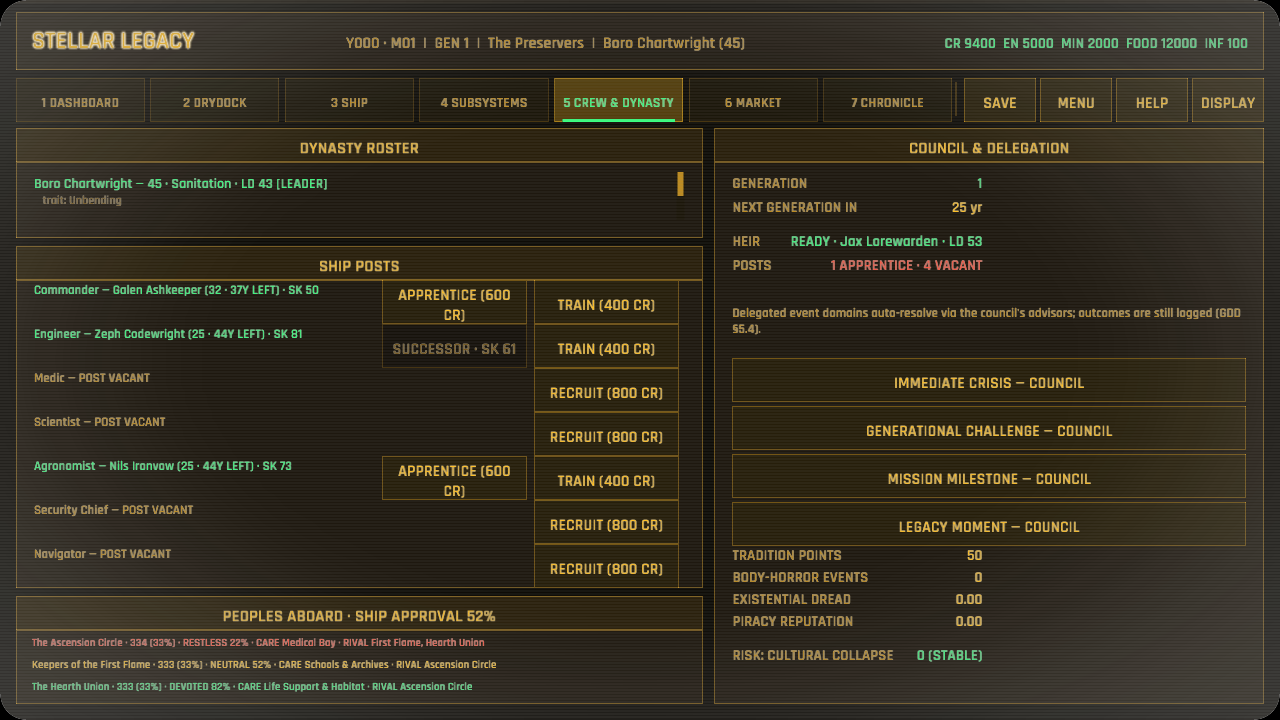
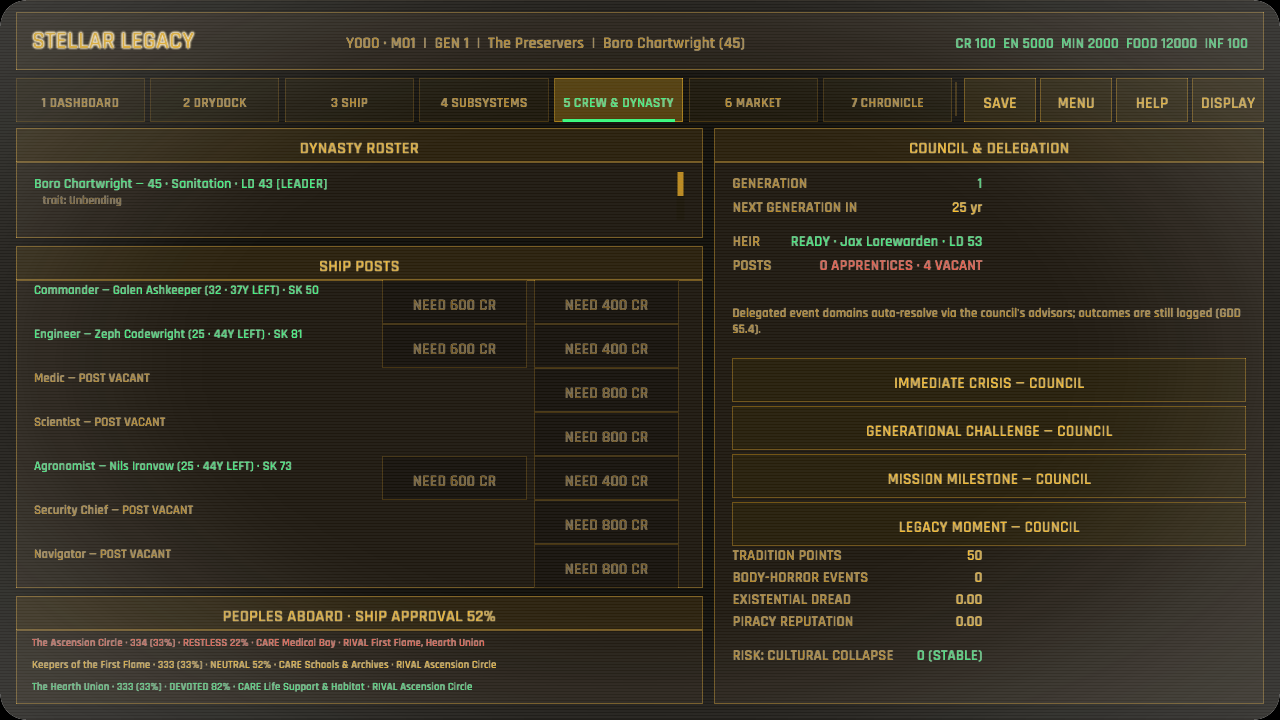
Empty coffers answer every crew petition plainly (crew action affordability)
Crew development controls continued to advertise recruit, apprentice, and training verbs when the treasury could not pay, and training alone remained visually enabled despite the resolver rejecting it. All three actions now replace their verb with the exact credit requirement when unaffordable, and training uses the same affordability gate as recruitment. A low-credit crew capture and focused label test keep the blocked state explicit.

diff --git a/src/ui/crew_dynasty.rs b/src/ui/crew_dynasty.rs
@@ -22,6 +22,14 @@ use macroquad_toolkit::ui::{draw_ui_text_ex, is_fully_visible, RectExt};
 const POST_STRIDE: f32 = 44.0;
 const POST_BUTTON_H: f32 = 44.0;
 
+fn priced_action_label(action: &str, cost: i64, credits: i64) -> String {
+    if credits >= cost {
+        format!("{action} ({cost} CR)")
+    } else {
+        format!("NEED {cost} CR")
+    }
+}
+
 pub fn draw(ctx: &GameplayCtx<'_>, area: Rect, pointer: Pointer, actions: &mut Vec<UiAction>) {
     let left = Rect::new(area.x, area.y, area.w * 0.55, area.h);
     let right = Rect::new(left.right() + 12.0, area.y, area.w - left.w - 12.0, area.h);
@@ -345,7 +353,13 @@ fn draw_posts(ctx: &GameplayCtx<'_>, rect: Rect, pointer: Pointer, actions: &mut
                 if term_button(
                     Rect::new(content.right() - 302.0, y - 14.0, 144.0, POST_BUTTON_H),
                     &apprentice.map_or_else(
-                        || format!("APPRENTICE ({} CR)", crew_cfg.apprentice_cost_credits),
+                        || {
+                            priced_action_label(
+                                "APPRENTICE",
+                                crew_cfg.apprentice_cost_credits,
+                                ctx.sim.resources.credits,
+                            )
+                        },
                         |a| format!("SUCCESSOR · SK {}", a.skill),
                     ),
                     apprentice.is_none()
@@ -359,9 +373,13 @@ fn draw_posts(ctx: &GameplayCtx<'_>, rect: Rect, pointer: Pointer, actions: &mut
                     &if maxed {
                         "MASTERED".to_owned()
                     } else {
-                        format!("TRAIN ({} CR)", crew_cfg.train_cost_credits)
+                        priced_action_label(
+                            "TRAIN",
+                            crew_cfg.train_cost_credits,
+                            ctx.sim.resources.credits,
+                        )
                     },
-                    !maxed,
+                    !maxed && ctx.sim.resources.credits >= crew_cfg.train_cost_credits,
                     pointer,
                 ) {
                     actions.push(UiAction::TrainCrew(archetype.id.clone()));
@@ -376,7 +394,11 @@ fn draw_posts(ctx: &GameplayCtx<'_>, rect: Rect, pointer: Pointer, actions: &mut
                 );
                 if term_button(
                     Rect::new(content.right() - 150.0, y - 14.0, 144.0, POST_BUTTON_H),
-                    &format!("RECRUIT ({} CR)", crew_cfg.recruit_cost_credits),
+                    &priced_action_label(
+                        "RECRUIT",
+                        crew_cfg.recruit_cost_credits,
+                        ctx.sim.resources.credits,
+                    ),
                     ctx.sim.resources.credits >= crew_cfg.recruit_cost_credits,
                     pointer,
                 ) {
@@ -387,6 +409,9 @@ fn draw_posts(ctx: &GameplayCtx<'_>, rect: Rect, pointer: Pointer, actions: &mut
         y += POST_STRIDE;
     }
 }
+
+#[cfg(test)]
+mod tests;
 
 fn draw_council(ctx: &GameplayCtx<'_>, rect: Rect, pointer: Pointer, actions: &mut Vec<UiAction>) {
     term_panel(rect, Some("COUNCIL & DELEGATION"));

diff --git a/src/game/capture_scenes.rs b/src/game/capture_scenes.rs
@@ -193,7 +193,7 @@ impl Game {
                     0xC0FFEE,
                     &crate::state::sim::founding_faction_ids(&self.data),
                 );
-                sim.resources.credits = 10_000;
+                sim.resources.credits = if scene == "crew" { 100 } else { 10_000 };
                 if scene == "crew_recruitment" {
                     sim.factions.pop();
                 }

diff --git a/src/ui/crew_dynasty/tests.rs b/src/ui/crew_dynasty/tests.rs
@@ -1,0 +1,11 @@
+use super::*;
+
+#[test]
+fn priced_crew_actions_explain_when_credits_are_missing() {
+    assert_eq!(priced_action_label("TRAIN", 400, 399), "NEED 400 CR");
+    assert_eq!(priced_action_label("TRAIN", 400, 400), "TRAIN (400 CR)");
+    assert_eq!(
+        priced_action_label("APPRENTICE", 600, 12_000),
+        "APPRENTICE (600 CR)"
+    );
+}
